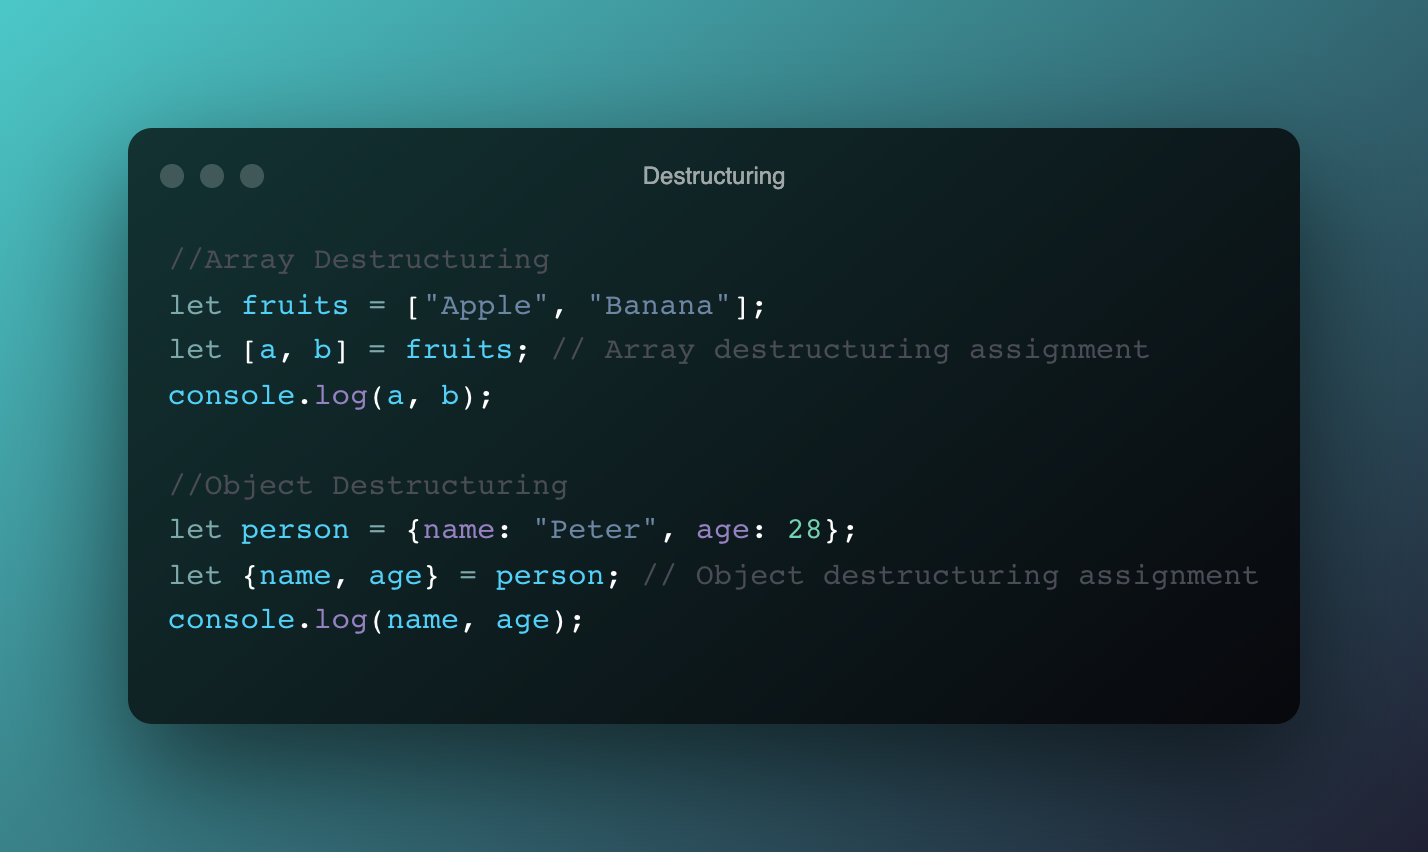
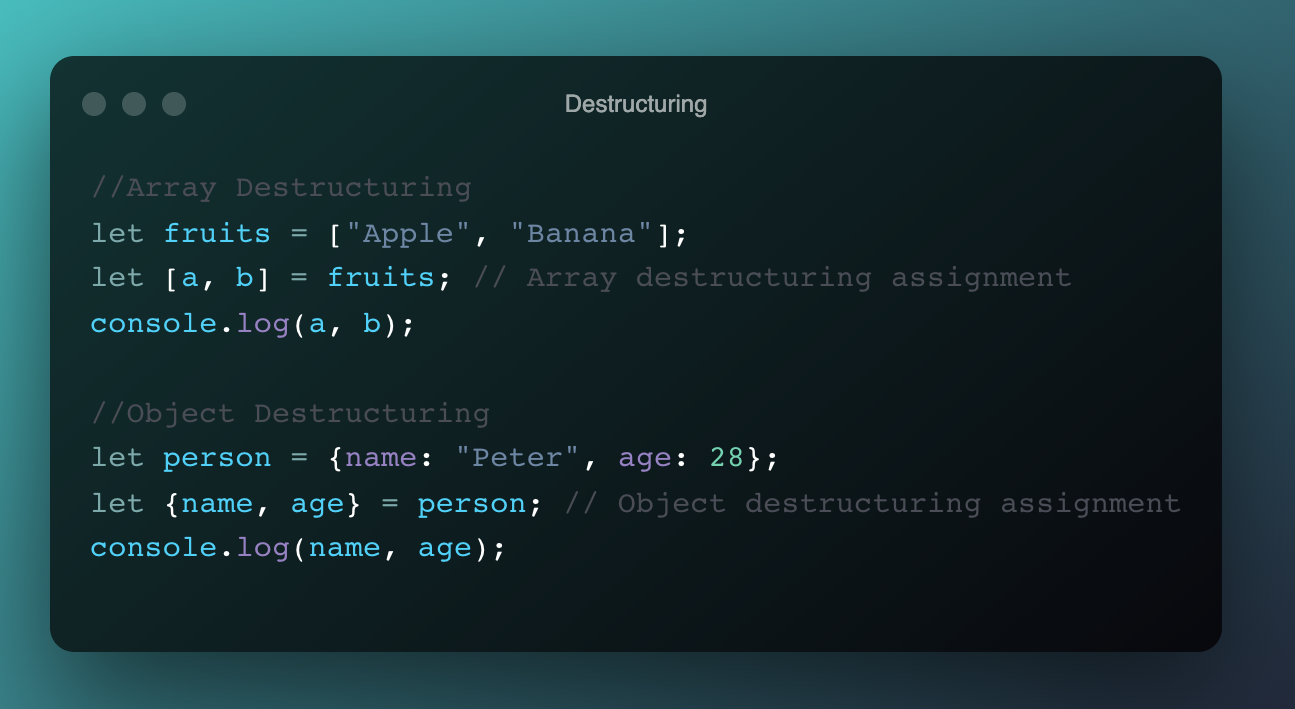
:zap: added events slides

Changed region(s): [[0.0, 0.0621, 0.9575, 1.0], [0.4324, 0.1862, 0.556, 0.2172]]

diff --git a/index.html b/index.html
@@ -5,7 +5,7 @@
 	<meta charset="utf-8">
 	<meta name="viewport" content="width=device-width, initial-scale=1.0, maximum-scale=1.0, user-scalable=no">
 	<title>Advanced JS.</title>
-
+	<link rel="icon" href="https://upload.wikimedia.org/wikipedia/commons/6/6a/JavaScript-logo.png" />
 	<link rel="stylesheet" href="dist/reset.css">
 	<link rel="stylesheet" href="dist/reveal.css">
 	<link rel="stylesheet" href="dist/theme/night.css">
@@ -19,11 +19,6 @@
 
 <body>
 	<style>
-		header {
-			font-family: "IBM Plex Mono", monospace;
-			font-size: 5rem;
-		}
-
 		p {
 			font-family: "Abel";
 			text-align: left;
@@ -58,15 +53,9 @@
 					<li class="fragment">Functions in JavaScript</li>
 					<li class="fragment">What is ES6?</li>
 					<li class="fragment">ES6 features</li>
-					<ul class="fragment">
-						<li>Arrow functions</li>
-						<li>Destructuring arrays and objects</li>
-						<li>Template Strings</li>
-						<li>Higher order Array Methods</li>
-						<li>JavaScript modules</li>
-					</ul>
-
+					<li class="fragment">Events in JavaScript</li>
 					<li class="fragment">What are promises?</li>
+					<li class="fragment">Document Object Model</li>
 				</ul>
 			</section>
 			<section>
@@ -75,7 +64,7 @@
 			</section>
 
 			<section>
-				<img src="img/Functions.png" width="600px" />
+				<img src="img/functions.png" width="550px" />
 			</section>
 
 
@@ -99,19 +88,32 @@
 			</section>
 
 			<section>
+				<h3>Anonymous Functions</h3>
+				<p>An anonymous function is a function that was declared without any named identifier to refer to it. As
+					such, an anonymous function is usually not accessible after its initial creation.</p>
+				<p>
+					One common use for anonymous functions is as arguments to other functions.
+				</p>
+			</section>
+
+			<section>
+				<img src="img/anonymous.png" width="500px" />
+			</section>
+
+			<section>
 				<h3 style="margin: 0.2em">Arrow Functions</h3>
 				<img src="img/arrow.png" width="850px" />
 			</section>
 
 			<section>
 				<h3 style="margin: 0.2em">Destructuring</h3>
-				<img src="img/Destructuring.png" width="850px" />
+				<img src="img/destructuring.png" width="850px" />
 
 			</section>
 
 			<section>
 				<h3 style="margin: 0.2em">Template Strings</h3>
-				<img src="img/Strings.png" width="850px" />
+				<img src="img/strings.png" width="850px" />
 			</section>
 
 			<section>
@@ -121,29 +123,106 @@
 			<section>
 				<h3>Modules</h3>
 				<p>JavaScript programs started off pretty small — most of its usage in the early days was to do isolated
-					scripting tasks, providing a bit of interactivity to your web pages where needed, so large scripts
-					were generally not needed. Fast forward a few years and we now have complete applications being run
+					scripting tasks, providing a bit of interactivity to your web pages, so large scripts
+					were generally not needed.
+				</p>
+				<p>
+					Fast forward a few years and we now have complete applications being run
 					in browsers with a lot of JavaScript code. Be it for frontend or backend.
+					Now it makes sense to start thinking about mechanisms for
+					splitting JavaScript programs up into separate modules that can be imported when needed.
+				</p>
+			</section>
 
-					It has therefore made sense in recent years to start thinking about providing mechanisms for
-					splitting JavaScript programs up into separate modules that can be imported when needed.</p>
+			<section>
+				<p>
+					JS modules rely on the <code>import</code> and <code>export</code> statements.
+					<br>
+					There are two types of exports: Named and Default.
+				<ul>
+					<li>
+						With named, one can have multiple named exports per file.
+						<br>
+						We import the specific exports we want surrounded in braces.
+						<br>
+						The name of imported module has to be the same as the name of the exported module.
+					</li>
+					<li>
+						One can have only one default export per file.
+						<br>
+						No curly braces are needed in default imports.
+						<br>
+						The naming of import is completely independent in default export and we can use any name we
+						like.
+					</li>
+				</ul>
+				</p>
+			</section>
+
+			<section>
+
+				<h4>Examples</h4>
+				<ul>
+					<li>Importing packages from <a href="https://npmjs.org">npm</a>
+					</li>
+					<li>
+						Import named exports from a <code>person.js</code> :
+						<br>
+						<code>import { name, age } from "./person.js";</code>
+					</li>
+					<li>
+						Import a default export from <code>message.js</code> :
+						<br>
+						<code>import message from "./message.js";</code>
+					</li>
+				</ul>
+				<br>
+				<br />
+			</section>
+
+			<section>
+				<h3>Events</h3>
+				<p class="fragment">
+					Events are actions or occurrences that happen in the system you are programming, which the system
+					tells you about so your code can react to them.
+					<br>
+					For example, if the user clicks a button on a webpage, you might want to react to that action by
+					displaying an information box.
+				</p>
 			</section>
 
 			<section>
 				<h4>Examples</h4>
-				<code>import { name, age } from "./person.js";</code>
-				<br />
-				<code>import message from "./message.js";</code>
+				<ul>
+					<li>The user selects, clicks, or hovers the cursor over a certain element.</li>
+					<li>The user chooses a key on the keyboard.</li>
+					<li>The user resizes or closes the browser window.</li>
+					<li>A form is submitted.</li>
+					<li>An image is loaded completely.</li>
+					<li>A video is played, paused, or finishes.</li>
+					<li>An error occurs.</li>
+				</ul>
+				<p>Every time such an event occurs, we might want to handle these events so as to perform a specific
+					task.</p>
 			</section>
 
+			<section>
+				<p>The recommended mechanism for adding event handlers in web pages is the
+					<code>addEventListener()</code> method:</p>
+				<p>Changing the <code> background-color</code> of the <code>body</code> to a random color on button
+					click.</p>
+				<img src="img/generateRandom.png" alt="" class="fragment">
+			</section>
 			<section>
 				<h3 style="margin: 0.2em">Promises</h3>
 				<p>
 					JavaScript is single threaded, meaning that two bits of script cannot run at the same time; they
 					have to run one after another. In browsers, JavaScript shares a thread with a load of other stuff
-					that differs from browser to browser. But typically JavaScript is in the same queue as painting the
-					Document Object Model, updating styles, and handling user actions. One thing happening delays the
-					other.
+					that differs from browser to browser.
+				</p>
+				<p>
+					But typically JavaScript is in the same queue as writing markup to the page, updating styles, and
+					handling user actions. One thing happening delays the other.
 				</p>
 			</section>
 
@@ -157,8 +236,9 @@
 			<section>
 				<h5>Now let's bring this closer to development.</h5>
 				<br />
-				<p>Let's say you want to display an image on your webpage and Depending on whether that event has been
-					loaded or not you want to perform some tasks.</p>
+				<p>Let's say you want to display an image on your webpage and depending on whether the image has been
+					loaded or not you want to perform some tasks.
+				</p>
 			</section>
 
 			<section>
@@ -193,7 +273,7 @@
 				<h4>Implementation in Real Life?</h4>
 				<p class="fragment">This is solved by a ES6 feature known as a <code>Promise</code>.</p>
 				<p class="fragment">
-					At their most basic, promises are a bit like event listeners except : </p>
+					At their most basic, promises are a bit like event listeners except :
 				<ul class="fragment">
 					<li>A promise can only succeed or fail once. It cannot succeed or fail twice, neither can it switch
 						from success to failure or vice versa.
@@ -203,8 +283,8 @@
 						callback will be called, even though the event took place earlier.
 					</li>
 				</ul>
-
 				</p>
+
 			</section>
 
 			<section>

diff --git a/README.md b/README.md
@@ -1,9 +1,7 @@
-# _Made with_ :
+
 <p align="center">
   <a href="https://revealjs.com">
   <img src="https://hakim-static.s3.amazonaws.com/reveal-js/logo/v1/reveal-black-text-sticker.png" alt="reveal.js" width="500">
   </a>
   <br><br>
 </p>
-
-Check out the live demo at [revealjs.com](https://revealjs.com/).
